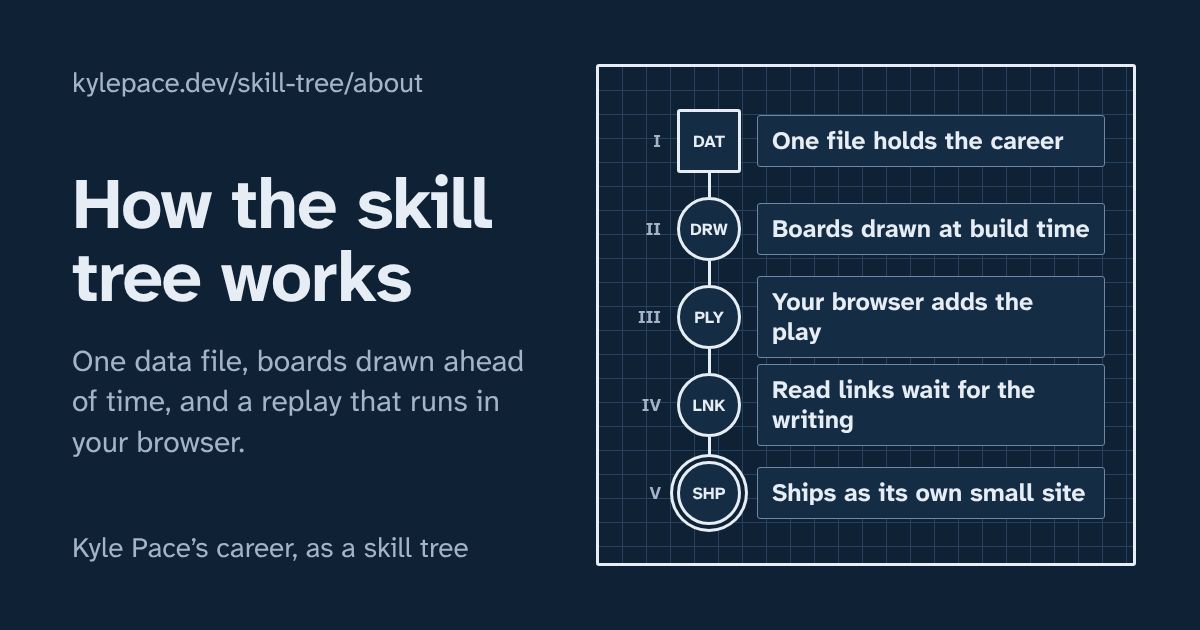
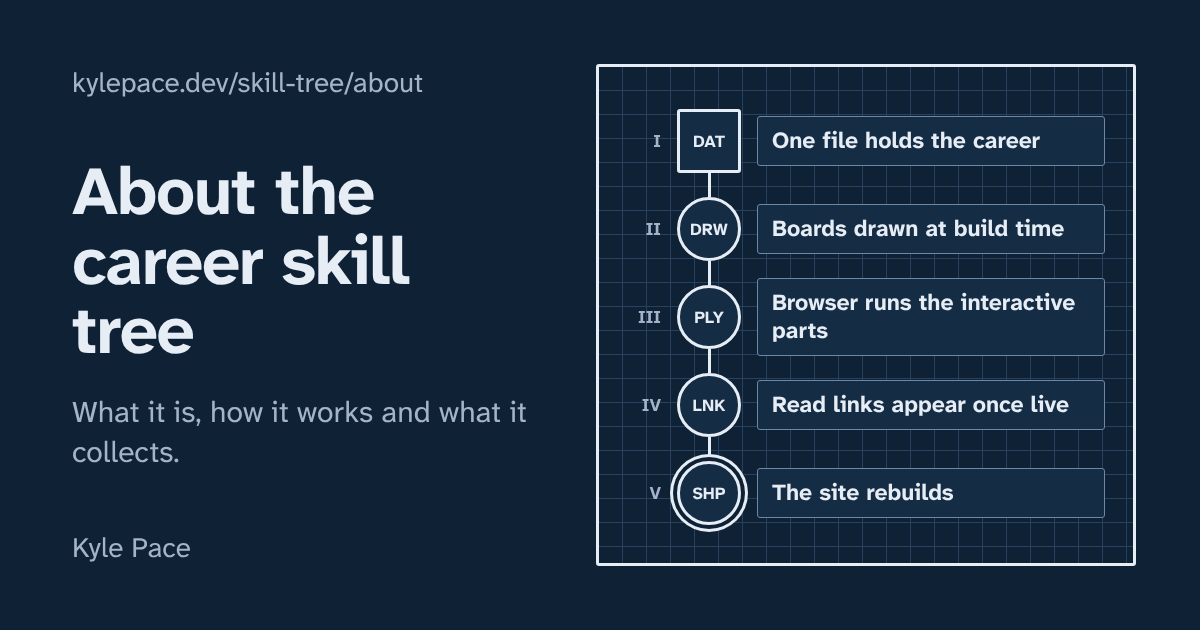
About page: standard title and headings, plain step names
- The title is About the career skill tree; sections use the shared headings
- Step names say plainly what happens, each with a Where it runs line; the share card matches

Claude-Session: https://claude.ai/code/session_015KDcQDvS6NT5BmgyMsjti6

diff --git a/design/og-about.html b/design/og-about.html
@@ -9,7 +9,7 @@ body{width:1200px;height:630px;background:#0f2135;font-family:A;overflow:hidden;
 .card{box-sizing:border-box;width:1200px;height:630px;padding:64px 64px 64px 72px;display:grid;grid-template-columns:1fr 540px;gap:48px}
 .text{display:flex;flex-direction:column;justify-content:space-between}
 .site{font-size:28px;color:#a3b4c8}
-h1{margin:0;font-size:72px;line-height:1.02;letter-spacing:-0.02em;font-weight:700}
+h1{margin:0;font-size:68px;line-height:1.02;letter-spacing:-0.02em;font-weight:700}
 .sub{margin:26px 0 0;font-size:30px;line-height:1.35;color:#a3b4c8}
 .frame{position:relative;border:3px solid #e6edf5;border-radius:3px;overflow:hidden;padding:30px 28px;box-sizing:border-box;
   background-color:#0f2135;
@@ -22,23 +22,23 @@ li:not(:last-child)::before{content:"";position:absolute;left:81px;top:76px;heig
 .node{width:64px;height:64px;box-sizing:border-box;border:3px solid #e6edf5;border-radius:50%;background:#152c45;display:grid;place-items:center;font-size:17px;font-weight:700}
 li:first-child .node{border-radius:3px}
 li:last-child .node{box-shadow:0 0 0 4px #0f2135,0 0 0 7px #e6edf5}
-.name{font-size:25px;font-weight:700;line-height:1.2;background:#152c45;border:1px solid #6d87a6;border-radius:3px;padding:10px 14px}
+.name{font-size:23px;font-weight:700;line-height:1.2;background:#152c45;border:1px solid #6d87a6;border-radius:3px;padding:10px 14px}
 </style></head><body>
 <div class="card">
   <div class="text">
     <div class="site">kylepace.dev/skill-tree/about</div>
     <div>
-      <h1>How the skill tree works</h1>
-      <p class="sub">One data file, boards drawn ahead of time, and a replay that runs in your browser.</p>
+      <h1>About the career skill tree</h1>
+      <p class="sub">What it is, how it works and what it collects.</p>
     </div>
-    <div class="site">Kyle Pace’s career, as a skill tree</div>
+    <div class="site">Kyle Pace</div>
   </div>
   <div class="frame"><ol>
     <li><span class="tier">I</span><span class="node">DAT</span><span class="name">One file holds the career</span></li>
     <li><span class="tier">II</span><span class="node">DRW</span><span class="name">Boards drawn at build time</span></li>
-    <li><span class="tier">III</span><span class="node">PLY</span><span class="name">Your browser adds the play</span></li>
-    <li><span class="tier">IV</span><span class="node">LNK</span><span class="name">Read links wait for the writing</span></li>
-    <li><span class="tier">V</span><span class="node">SHP</span><span class="name">Ships as its own small site</span></li>
+    <li><span class="tier">III</span><span class="node">PLY</span><span class="name">Browser runs the interactive parts</span></li>
+    <li><span class="tier">IV</span><span class="node">LNK</span><span class="name">Read links appear once live</span></li>
+    <li><span class="tier">V</span><span class="node">SHP</span><span class="name">The site rebuilds</span></li>
   </ol></div>
 </div>
 </body></html>

diff --git a/AGENTS.md b/AGENTS.md
@@ -79,7 +79,8 @@ Every project uses the same rules, so charts read the same way everywhere.
 - Leave Amplitude's own `[Amplitude] …` events alone. Add custom events only for actions that answer a real product question; autocapture covers page views and clicks.
 - **One Amplitude project per product.**
 - kylepace.dev and every experiment on it share the kylepace.dev project, so each experiment's custom events also send `experiment` with the project's slug (`experiment: "skill-tree"`).
-- **Tracking plan first:** add each new event to the project's tracking plan in Amplitude, with a description and category, when it ships. Nothing should arrive as "unexpected".
+- **Every new feature ships with its events.** Building a feature includes its analytics: the events that say whether people find it and use it, written in the same change as the feature, not left as a follow-up. Say in your report which events you added, or why the feature needs none.
+- **Tracking plan first:** add each new event and its properties to the project's tracking plan in Amplitude, with a description and category, as part of the same piece of work. Do it yourself when you can reach Amplitude; if you can't, say so and list exactly what needs adding. Nothing should arrive as "unexpected".
 - **Renaming an event:** rename it in code, then merge the old name into the new one in Amplitude so history stays connected. Don't rename in Amplitude alone.
 - **New product:** create its Amplitude project and add a row for it to the "All projects overview" dashboard. A new experiment on kylepace.dev needs neither: it appears there by page path.
 
@@ -96,7 +97,8 @@ Every project uses the same rules, so charts read the same way everywhere.
 - Before building a page or app's look, write a short plan in `design/PLAN.md`: the subject and who it's for, the one bold element, 4 to 6 named colors (light and dark), and the layout as a sketch. Take the ideas from the subject's own world, not from other websites. If a frontend-design skill is available, load it.
 - Check the plan against the generated defaults and change anything that matches: a big headline over a muted sentence and a pill button; pills or one corner radius on everything; grids of identical cards; small labels above headings; colored dots or squares as decoration; details joined with middle dots; monospace for small labels; copy that explains the interface instead of using it.
 - Spend boldness in one place and keep the rest quiet. Look at screenshots (phone and desktop, light and dark) before calling it done.
-- Experiments on kylepace.dev are their own pages (kp-design's `LabLayout`) with their own look. The app comes first; the explanation goes in an About section linked from the top bar.
+- Experiments on kylepace.dev are their own pages (kp-design's `LabLayout`) with their own look. The app comes first; the explanation goes on its About page, linked from the top bar.
+- About pages use the same title, headings and step format everywhere (the `about-page` skill). The look can follow the project's theme; the words never do.
 
 ### How things get built
 
@@ -158,6 +160,7 @@ Match the checking to the change. If you're unsure which tier a change is, use t
 **Tier 2: something people see or use changed.** Layout, styles, a component, a new control, new behavior.
 
 - Everything in tier 1.
+- A new feature has its events in code and in the Amplitude tracking plan (see "Analytics events").
 - Run the project's check command (`npm run check` where a project has one). It runs axe on every page in light and dark, fails on sideways scrolling, and saves screenshots at 320, 768, 1280 and 1920 px. Fix what it finds.
 - Look at the changed screen in light and dark, at the smallest size and a large one.
 - Use new controls with the keyboard (and VoiceOver in apps): reachable, visible focus, a name that makes sense.
@@ -183,7 +186,7 @@ The career skill tree: Kyle's career drawn as an RPG skill tree, at [kylepace.de
 - **Everything this site serves lives under `/skill-tree/`**: the page is `src/pages/skill-tree/index.astro`, public files go in `public/skill-tree/`, and built assets go to `/skill-tree/_astro/`. Don't use Astro's `base` option; with the Cloudflare adapter it serves files from the wrong folder.
 - **It's a standalone lab, not a page of kylepace.dev.** The shell is kp-design's `LabLayout` (a back link to kylepace.dev in the upper left, an "About" link on the right of that bar, a one-line footer, display settings and analytics), pinned to a commit in package.json. There's no site header; the kylepace.dev links live in kp-design, not here.
 - **Its look is its own: a character sheet on graph paper** (a blueprint in dark mode). The tokens are overridden in `src/styles/theme.css`; the reasoning, palette and layout are in `design/PLAN.md`. Read the plan before restyling, and keep to Atkinson Hyperlegible Next with no monospace, square 3px corners, no pills, and meta written as plain sentences.
-- **The tree comes first.** The page opens with one line of title and then the app. The character fields and attributes sit under the tree, and a short About section sits at the bottom (`#about`). Don't add an intro above the tree. The full explanation, with how it's built, is its own page: `src/pages/skill-tree/about.astro` (`/skill-tree/about/`), linked from "About" in the top bar. Its counts come from the data file; if how the tree is built or shipped changes, change that page too.
+- **The tree comes first.** The page opens with one line of title and then the app. The character fields and attributes sit under the tree, and a short About section sits at the bottom (`#about`). Don't add an intro above the tree. The full explanation is its own page: `src/pages/skill-tree/about.astro` (`/skill-tree/about/`), linked from "About" in the top bar, with the standard title, headings and step format from the `about-page` skill. Its counts come from the data file; if how the tree is built or shipped changes, change that page too.
 - **"Read" links:** a node with `read: "writing/<slug>"` or `"work/<slug>"` links to that post on kylepace.net, but only once it's live there. `scripts/links.mjs` checks before every build and weekly (`.github/workflows/links.yml`), writing `src/data/links.json`. Don't edit that file by hand.
 - The share cards are `design/og.html` and `design/og-about.html`, rendered to `public/skill-tree/og.png` and `og-about.png`.
 - Run `npm run build` before pushing; it must pass. Cloudflare Workers Builds deploys `main`.

diff --git a/.agents/skills/about-page/SKILL.md b/.agents/skills/about-page/SKILL.md
@@ -1,0 +1,49 @@
+---
+name: about-page
+description: Write or update a project's About page (how it works, where its data comes from, privacy). Use when adding an About page to a lab, app site or tool, when changing how a project collects or serves its data, or when asked to explain how something works on the site itself.
+---
+
+# About pages
+
+Every lab and app site has one About page, and every one uses the same words for the same things, so a visitor who has read one knows how to read the next. The look belongs to the project (a transit line, graph paper, a recipe card layout). The words don't: headings and step names are plain and the same everywhere.
+
+## Where it lives
+
+- Address: `/<slug>/about/`. The top bar link says **About**.
+- One page. A project with a lot to say (Seattle Grocery Deals) can split "How it works" onto its own page with the same headings.
+
+## The page
+
+**Title:** `About <name>`, using the project's name as it's listed (About Washington transit, About World cuisine). Nothing above or below it: no tagline, no lede, no "here's how" sentence. The page starts with the first section.
+
+**Sections**, in this order, with exactly these headings. Leave out any that don't apply; don't add others.
+
+| Heading | What goes in it |
+| --- | --- |
+| What it is | One or two short paragraphs: what it does and who it's for. Link to the project's main page. |
+| How to use it | Only if it isn't obvious from the page: how to read the controls or the drawing. |
+| How it works | Numbered steps, in the order things happen, from the source to the visitor's screen. |
+| Where the data comes from | Every source, linked, with its license where it has one. Credits that a source requires go here. |
+| Good to know | Limits and accuracy: how old the data can be, what's missing, what it's not for, how it's tested. |
+| Ask your AI assistant | Only if the project has an MCP server. |
+| For site owners | Only if the project collects from other people's sites. |
+| Privacy | What's collected (usually only kylepace.dev's anonymous analytics), what stays on the device, which outside hosts are contacted. Link to the site's privacy page. |
+| Get in touch | Where to send a correction or question (mail@kylepace.net, or the project's own address) and the public code link, if the repo is public. |
+
+## Steps in "How it works"
+
+Each step has three parts:
+
+1. **A name**: a plain sentence about what happens. "Read the list", "Check the new data before publishing", "Your browser draws the map". Never a metaphor or a play on the project's theme ("Plate it", "Taste before serving", "Adds the play").
+2. **A "Where it runs:" line**, written exactly like that: "Where it runs: GitHub Actions, once a week."
+3. **One or two short paragraphs** in plain language.
+
+Name real tools once, plainly (GitHub Actions, Cloudflare, Wikipedia). Explain a term the first time (GTFS, MCP). Numbers and dates come from the project's data at build time, never typed in.
+
+## Words to avoid
+
+Theme words in headings or step names ("Notes from the cook", "The route, stop by stop", "Ingredients" and "Method" as headings), headings phrased as teasers, and "Here's how…" openers. The theme can show up in the drawing and in an occasional phrase inside a paragraph, never in the structure.
+
+## Share card
+
+Title is the page title (`About <name>`), one plain line under it saying what the page covers, and the address. Make it with the `share-card` skill, in the project's own look.

diff --git a/design/PLAN.md b/design/PLAN.md
@@ -112,11 +112,12 @@ section at the bottom, linked from "About" on the right of LabLayout's top bar.
 
 ## The about page
 
-`/skill-tree/about/` holds the explanation in full: what it is, how to read it, how it's
-built and the notes. "How it's built" is the one drawn part: a build order set as a single
-five-tier track on graph paper, in the tree's own vocabulary. Tier numerals run down the
-margin, each step is a node with a three-letter glyph (a square milestone to start, round
-skills, a double-ringed capstone to finish), a line runs from each step to the one that
-builds on it, and each step's text sits on an index card so it never rests on the grid.
-"Where it runs" is a filled-in blank with a rule under it. Everything else on the page is
-ruled section headings and body text. Counts come from the data file at build time.
+`/skill-tree/about/` uses the standard About page title, headings and step format (the
+`about-page` skill): the words match every other project, the look is this lab's. "How it
+works" is the one drawn part: its steps are set as a single five-tier track on graph paper,
+in the tree's own drawing. Tier numerals run down the margin, each step is a node with a
+three-letter glyph (a square milestone to start, round skills, a double-ringed capstone to
+finish), a line runs from each step to the next, and each step's text sits on an index
+card so it never rests on the grid. The "Where it runs:" line sits on a rule, like the
+sheet's fields. Everything else is ruled headings and body text. Counts come from the data
+file at build time.

diff --git a/.agents/skills/page-check/SKILL.md b/.agents/skills/page-check/SKILL.md
@@ -22,7 +22,7 @@ It checks every page the build wrote as an HTML file and fails on:
 
 It also saves full-page screenshots to `.check/`, named `<page>-<width>-<light|dark>.png`. In a full-page shot, anything fixed to the screen (the display settings button, a sticky bar) is drawn once, where the first screen ends, so it can look like it covers content in the middle of the page. It doesn't; check how it sits at the very bottom of the page instead. Passing the check is not the same as looking: open the screenshots of the pages you changed (at least the smallest width and a large one, both themes) and check nothing overlaps, clips or looks off.
 
-Useful options: `--pages /apps/,/labs/` to check only some pages, `--no-shots` to skip screenshots, `--dir <folder>` if the build isn't in `dist/client`, `dist` or `_site`. Locally, set `CHROME=/path/to/chrome` to use a browser that's already installed.
+Useful options: `--pages /apps/,/labs/` to check only some pages, `--sample 3` on a big site to check three pages from each folder of look-alike pages (every store, every week) instead of all of them, `--no-shots` to skip screenshots, `--dir <folder>` if the build isn't in `dist/client`, `dist` or `_site`. Locally, set `CHROME=/path/to/chrome` to use a browser that's already installed.
 
 What it can't see: pages rendered on the server at request time, anything behind a click (menus, dialogs, a map's controls), keyboard order, and whether alt text is any good. Check those by hand for the screens you changed.
 
